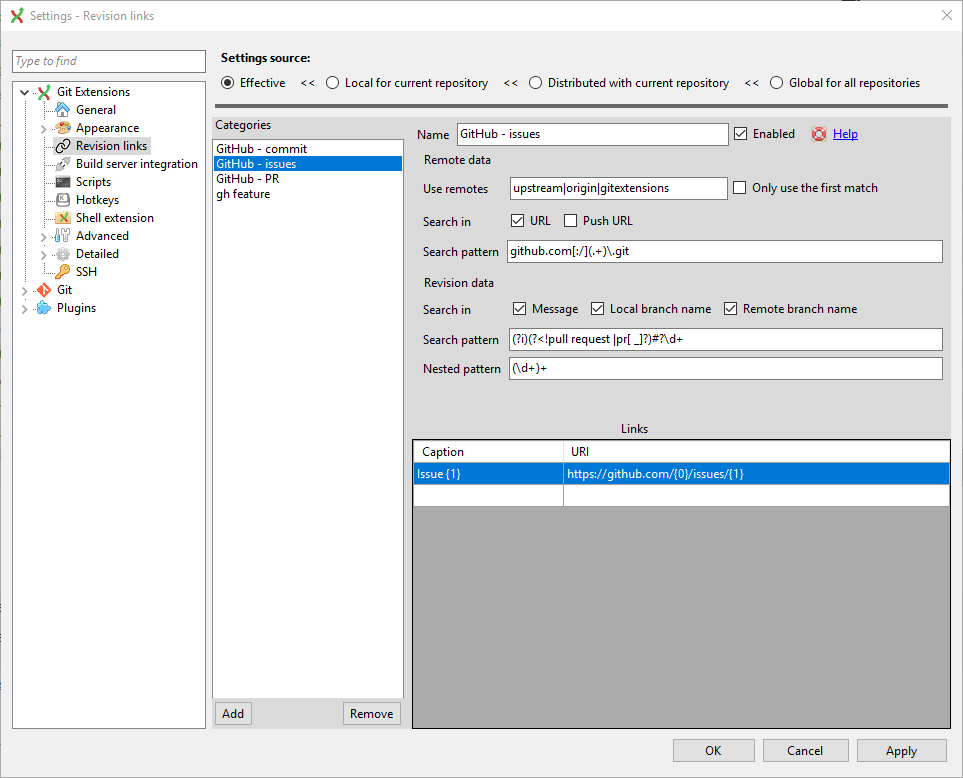
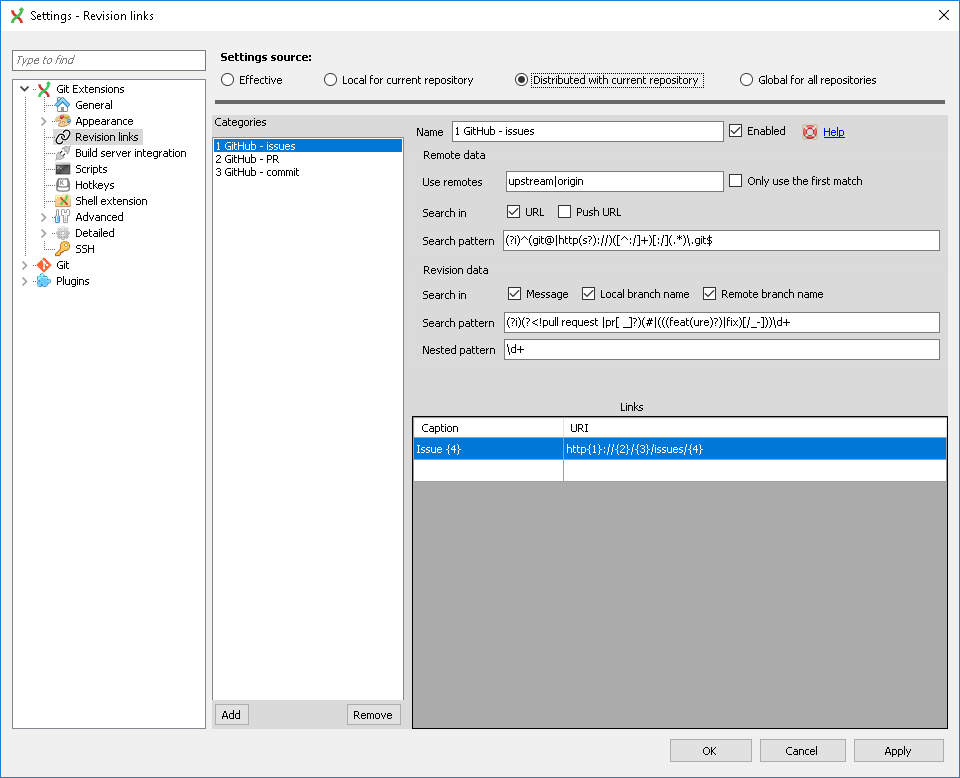
Add settings file with generic GH revision links

diff --git a/source/settings.rst b/source/settings.rst
@@ -347,6 +347,10 @@ depending on whether or not they are distributed with that repository.
     The most common case is to convert an issue number given as a part of commit message into a link to the coresponding issue-tracker page.
     The screenshot below shows an example configuration for GitHub issues.
 
+    You could add this quite generic
+    `GitExtensions.settings <https://github.com/gitextensions/GitExtensionsDoc/blob/master/source/files/settings/GitExtensions.settings>`
+    file to the root of your repository.
+
     .. image:: /images/settings/revision_links.png
 
     .. setting:: Categories
